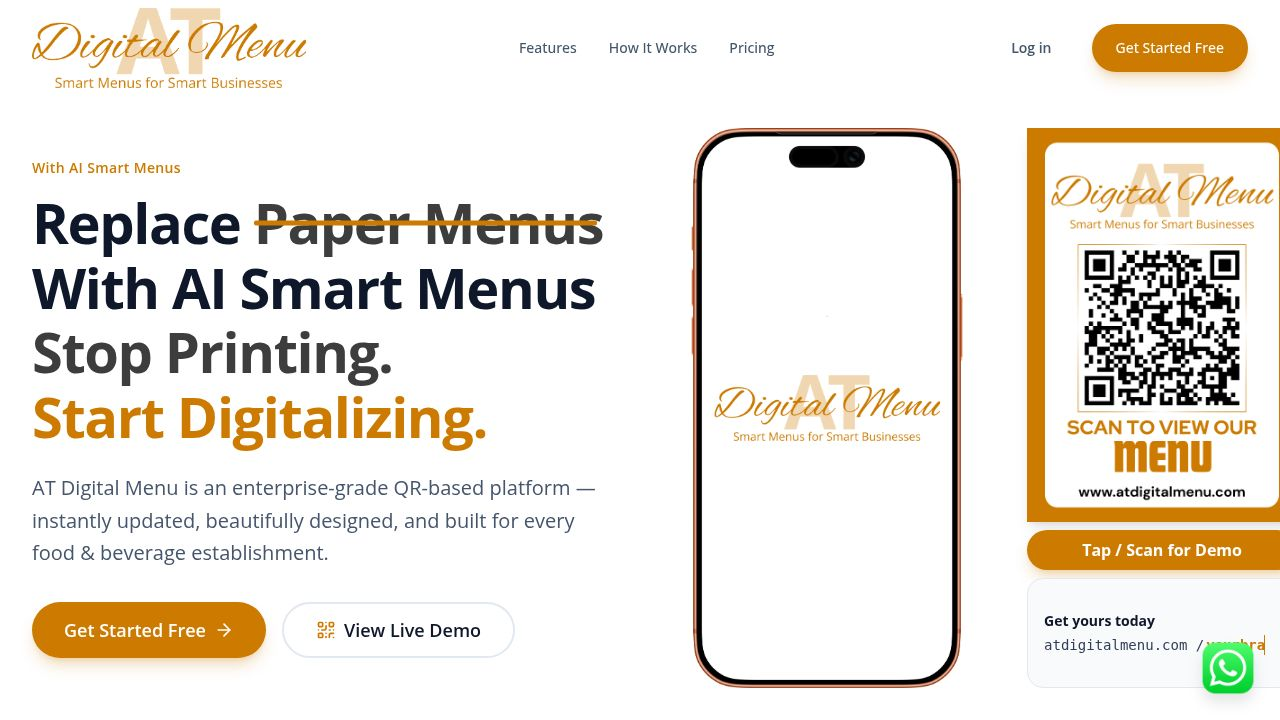
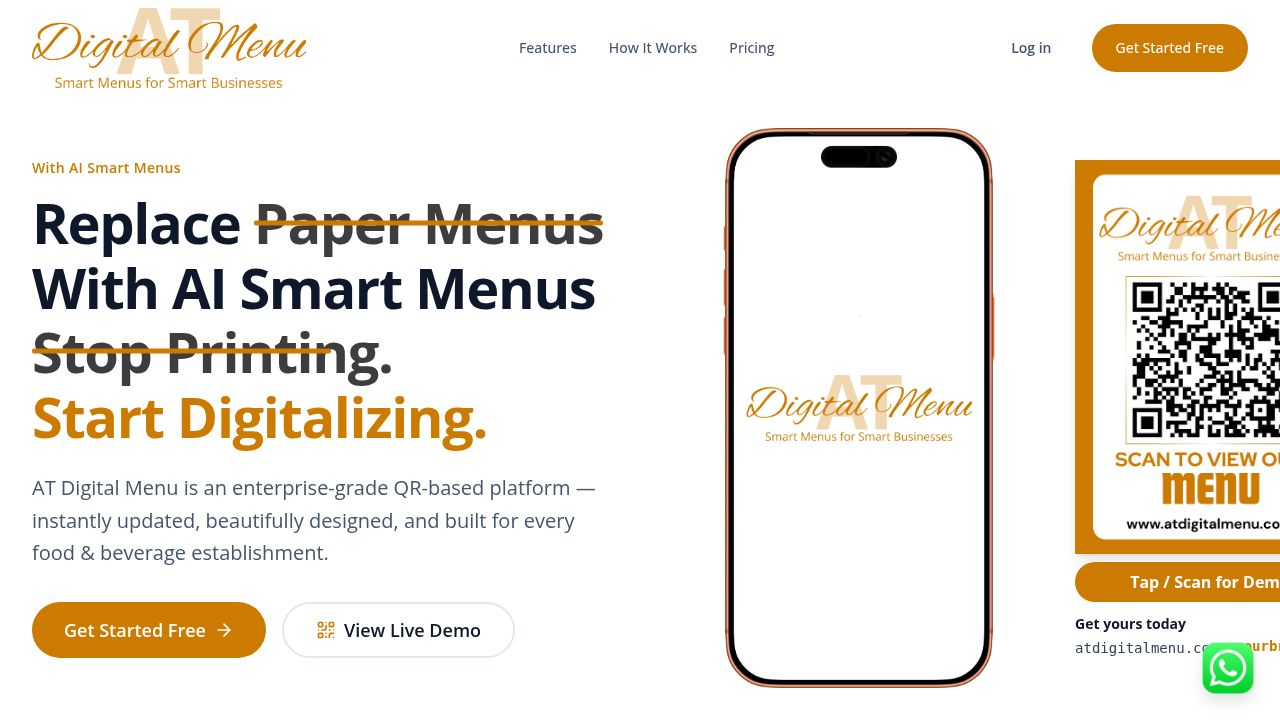
Expand phone display to occupy more screen space on the left
Adjusted CSS class for the phone image in `home.tsx` to increase negative left margin and width, making it occupy a larger portion of the screen.

Replit-Commit-Author: Agent
Replit-Commit-Session-Id: 25fb6565-eac5-447b-90f6-cba5116caf2d
Replit-Commit-Checkpoint-Type: full_checkpoint
Replit-Commit-Event-Id: 0df55b5f-ee29-4a5f-b4f5-bd631a2b80b2
Replit-Commit-Screenshot-Url: https://storage.googleapis.com/screenshot-production-us-central1/183a71c8-a1ba-4f97-819c-73cb1306650c/25fb6565-eac5-447b-90f6-cba5116caf2d/UPTTj74
Replit-Helium-Checkpoint-Created: true

diff --git a/artifacts/at-digital-menu/src/pages/home.tsx b/artifacts/at-digital-menu/src/pages/home.tsx
@@ -157,7 +157,7 @@ function HeroSection() {
             <img
               src={`${import.meta.env.BASE_URL}images/hero-phone.png`}
               alt="AT Digital Menu on Smartphone"
-              className="-ml-16 w-[84%] sm:ml-0 sm:w-full sm:max-w-[400px] lg:max-w-[560px] object-contain flex-shrink-0"
+              className="-ml-24 w-[92%] sm:ml-0 sm:w-full sm:max-w-[400px] lg:max-w-[560px] object-contain flex-shrink-0"
               style={{ mixBlendMode: "multiply" }}
             />
             {/* QR column — flex-1 on mobile fills remaining width, fixed on desktop */}
